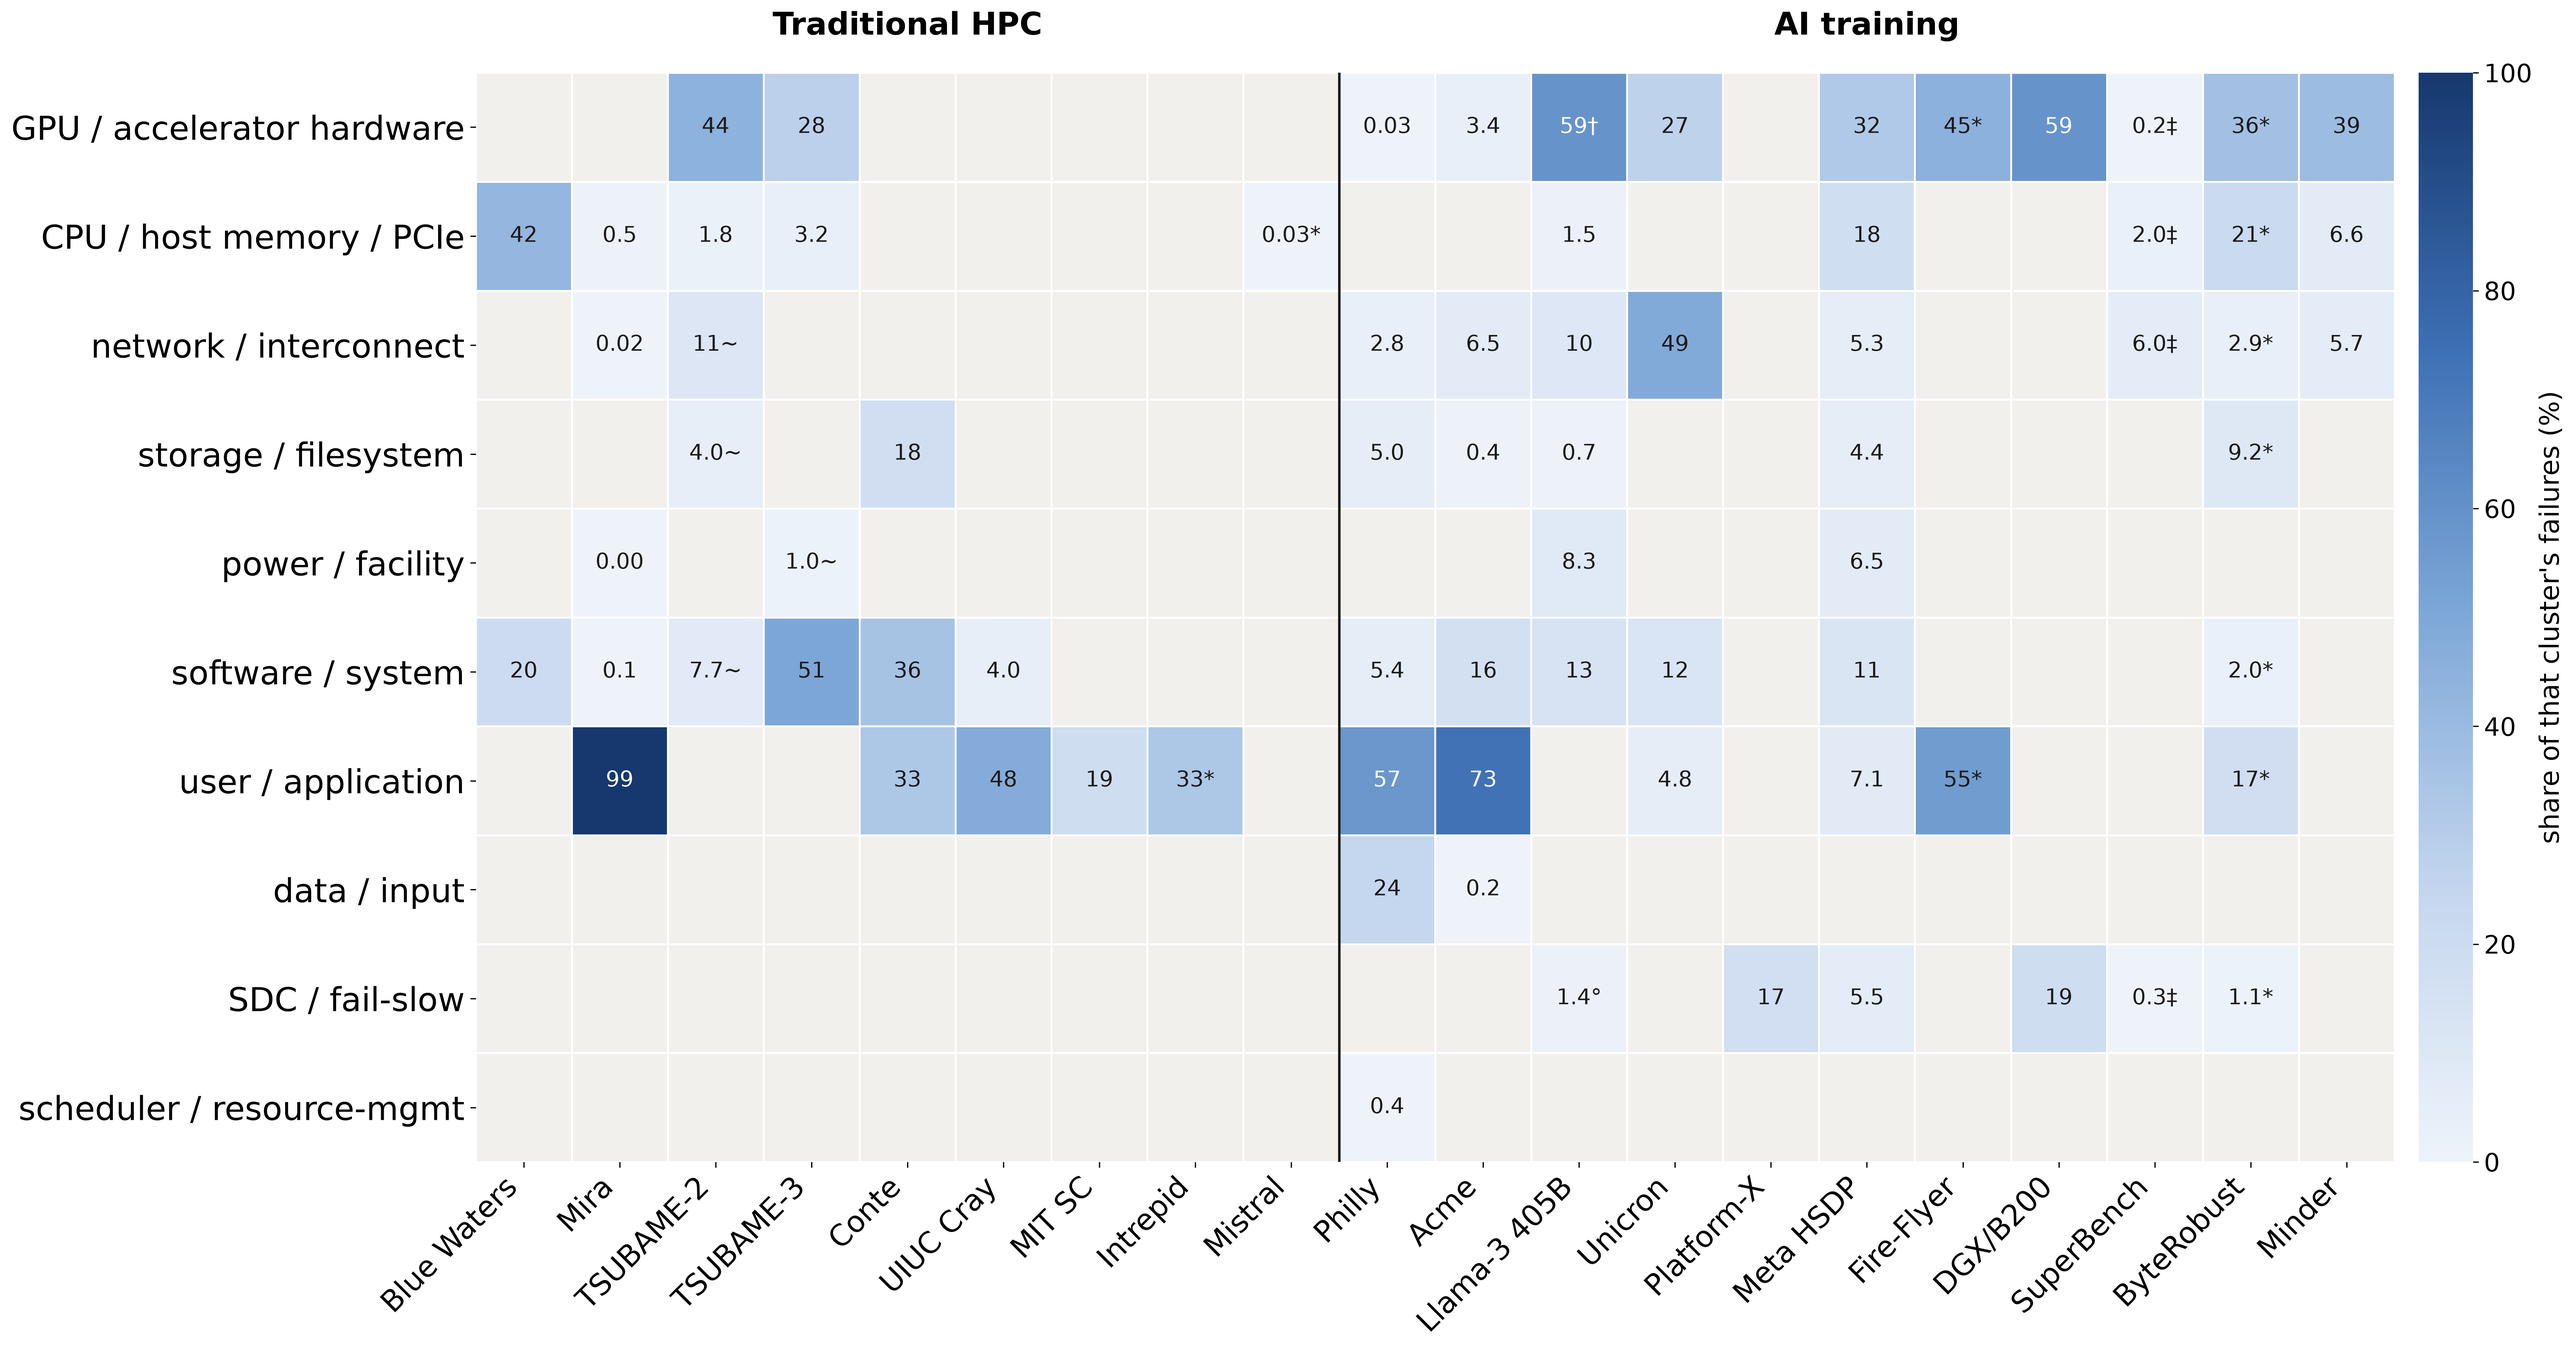
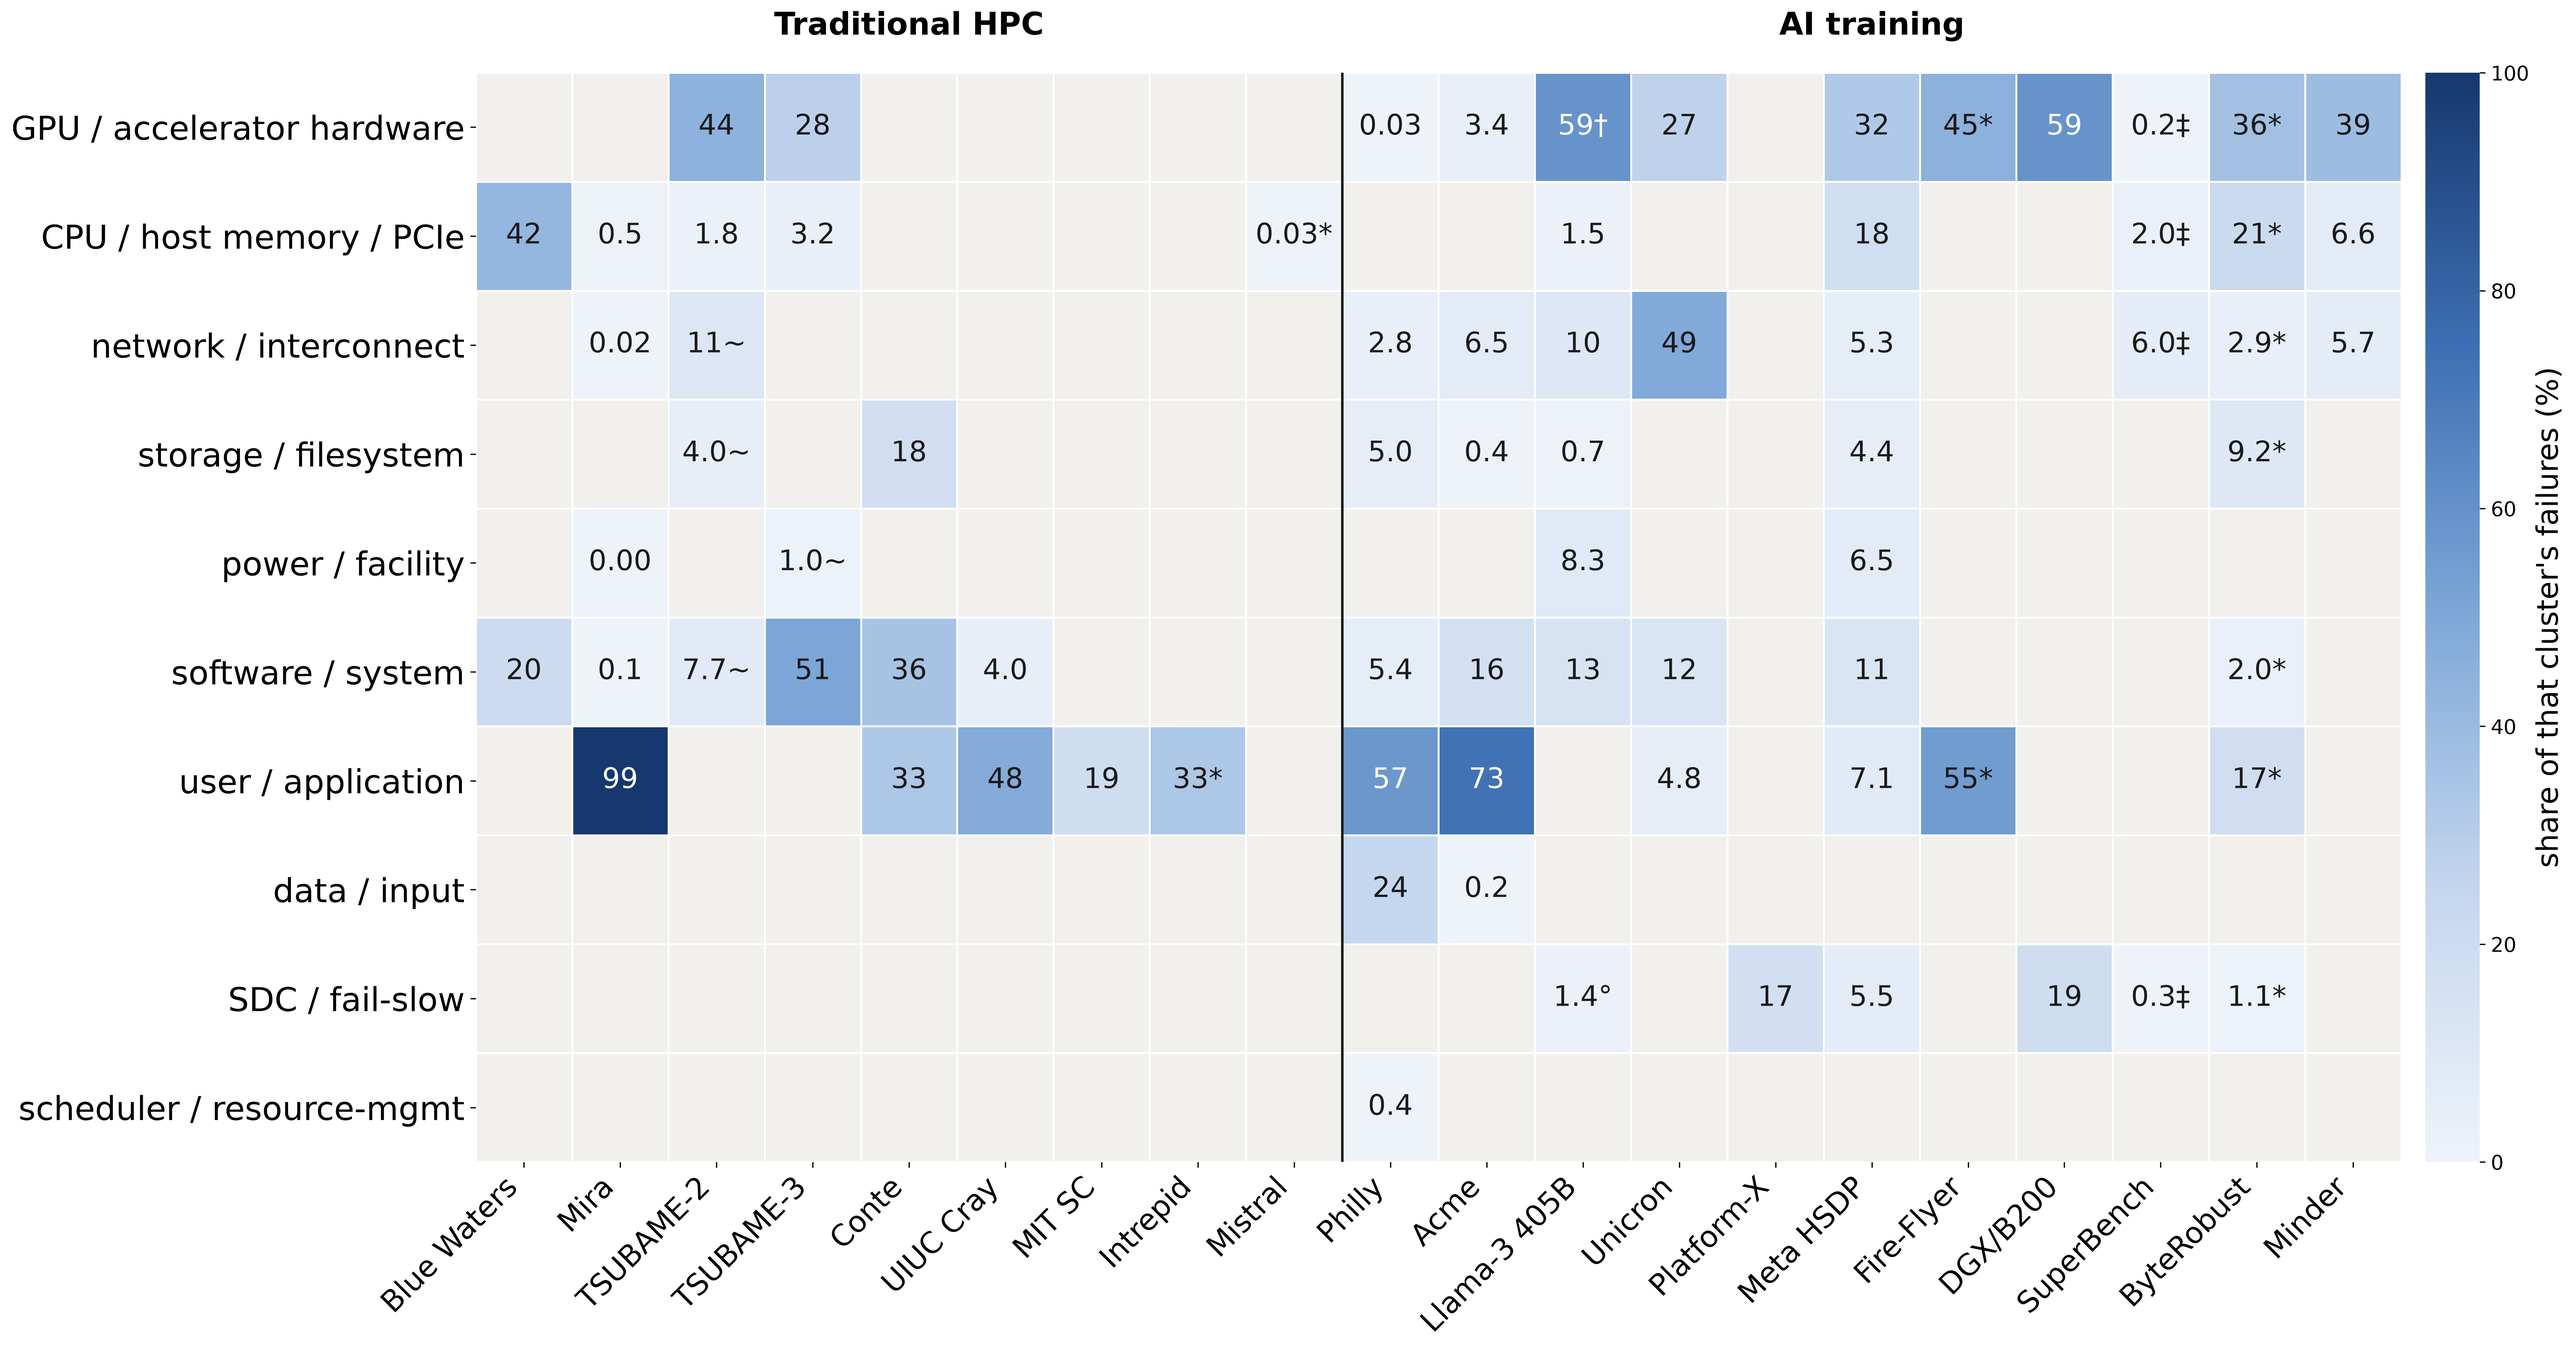
Update figures to camera-ready versions and fix render data path
The render script read the matrix CSVs from figures/, but the repo keeps
them in matrices/, so `python figures/render_final_figs.py` failed. Point
it at matrices/ and update it to the camera-ready typography (larger cell
and axis fonts, two-line row and column labels in the GPU figure). Data
values are unchanged. The committed PNGs are the output of this script and
match the figures in the FTXS paper and SC26 poster.

diff --git a/figures/render_final_figs.py b/figures/render_final_figs.py
@@ -13,8 +13,10 @@ matplotlib.rcParams["ps.fonttype"]  = 42
 import matplotlib.pyplot as plt
 import matplotlib.patches as mp
 from matplotlib.colors import LinearSegmentedColormap
+from mpl_toolkits.axes_grid1 import make_axes_locatable
 
 HERE = Path(__file__).parent
+DATA = HERE.parent / 'matrices'   # repo layout: CSVs live in matrices/
 F = 1.0  # fonts below are ABSOLUTE printed points; canvases match poster placement size
 
 ROWS = ["GPU/accelerator hardware","CPU/host memory/PCIe","network/interconnect",
@@ -51,7 +53,7 @@ def val(s):
 def mark(s):
     return re.sub(r'[\d.]','',s)
 
-hdr,dc = load(HERE/'matrix_count_v3.csv')
+hdr,dc = load(DATA/'matrix_count_v3.csv')
 
 # ---------------- FIG A: cause-attributed heat map + colorbar ----------------
 cause_rows = ROWS[:10]
@@ -70,7 +72,7 @@ for i in range(len(cause_rows)):
         v=M[i,j]
         if np.isnan(v): continue
         t=("0" if v==0 else f"{v:.2f}" if v<0.1 else f"{v:.1f}" if v<10 else f"{v:.0f}")+MK.get((i,j),'')
-        ax.text(j,i,t,ha='center',va='center',fontsize=14,
+        ax.text(j,i,t,ha='center',va='center',fontsize=18,
                 color="#ffffff" if v>55 else "#1a1a1a")
 ax.set_xticks(np.arange(-0.5,len(cols)),minor=True); ax.set_yticks(np.arange(-0.5,len(cause_rows)),minor=True)
 ax.grid(which='minor',color='white',linewidth=1.2); ax.tick_params(which='minor',length=0)
@@ -84,8 +86,8 @@ ax.axvline(nh-0.5,color='#1a1a1a',linewidth=1.6)
 ax.text((nh-1)/2,-0.85,'Traditional HPC',ha='center',fontsize=20,fontweight='bold')
 ax.text(nh+(len(cols)-nh-1)/2,-0.85,'AI training',ha='center',fontsize=20,fontweight='bold')
 cb = fig.colorbar(im, ax=ax, fraction=0.028, pad=0.012)
-cb.set_label("share of that cluster's failures (%)", fontsize=17)
-cb.ax.tick_params(labelsize=16); cb.outline.set_visible(False)
+cb.set_label("share of that cluster's failures (%)", fontsize=19)
+cb.ax.tick_params(labelsize=13); cb.outline.set_visible(False)
 fig.tight_layout()
 fig.savefig(HERE/'figA_causes_final.png', bbox_inches='tight')
 fig.savefig(HERE/'figA_causes_final.pdf', bbox_inches='tight'); plt.close(fig)
@@ -101,34 +103,34 @@ groups={**{c:'#3d6fb4' for c in HPCset},**{c:'#b4643d' for c in AIset}}
 colors=[groups.get(c,'#6e6e6e') for c,_,_ in labels]
 ax.barh(range(len(labels)),[v for _,v,_ in labels],color=colors,height=0.62)
 for i,(c,v,s) in enumerate(labels):
-    ax.text(v+0.4,i,s,va='center',fontsize=17,color='#1a1a1a')
+    ax.text(v+0.4,i,s,va='center',fontsize=19,color='#1a1a1a')
 ax.set_yticks(range(len(labels)))
 ax.set_yticklabels([SH.get(c,c) for c,_,_ in labels],fontsize=20)
-ax.set_xlabel("failed / unsuccessful share of jobs (%), scheduler label only",fontsize=17)
+ax.set_xlabel("failed / unsuccessful share of jobs (%), scheduler label only",fontsize=19)
 ax.tick_params(axis='x',labelsize=16)
 ax.legend(handles=[mp.Patch(color='#3d6fb4',label='HPC'),mp.Patch(color='#b4643d',label='AI'),
-                   mp.Patch(color='#6e6e6e',label='Cloud')],fontsize=14,loc='lower right',frameon=False)
+                   mp.Patch(color='#6e6e6e',label='Cloud')],fontsize=18,loc='lower right',frameon=False)
 for s in ('top','right'): ax.spines[s].set_visible(False)
 fig.tight_layout()
 fig.savefig(HERE/'figB_labels_final.png',bbox_inches='tight')
 fig.savefig(HERE/'figB_labels_final.pdf',bbox_inches='tight'); plt.close(fig)
 
 # ---------------- FIG C: GPU error classes + colorbar ----------------
-GROWS=["Uncorrectable memory (DBE/HBM)","Correctable memory (SBE/remap)","MMU / illegal access  [mostly app bugs]",
-"GSP / driver","NVLink","Off-bus / device lost (Xid79)","PCIe / interface","Thermal / power","SDC (silent)",
-"Generic GPU (no subclass)","Other named"]
-GCOLS=[("Blue Waters\nK20X","logged\nevents",{0:(0.009,'~'),2:(36.8,'~'),3:(21.1,'~'),5:(41.9,'~'),10:(0.12,'~')}),
- ("TSUBAME-2\nK20X","all failures",{9:(44.4,'')}),
- ("TSUBAME-3\nP100","all failures",{3:(21.6,'~'),9:(27.8,'')}),
+GROWS=["Uncorrectable memory\n(DBE/HBM)","Correctable memory\n(SBE/remap)","MMU / illegal access\n[mostly app bugs]",
+"GSP / driver","NVLink","Off-bus / device lost\n(Xid79)","PCIe / interface","Thermal / power","SDC (silent)",
+"Generic GPU\n(no subclass)","Other named"]
+GCOLS=[("Blue\nWaters\nK20X","logged\nevents",{0:(0.009,'~'),2:(36.8,'~'),3:(21.1,'~'),5:(41.9,'~'),10:(0.12,'~')}),
+ ("TSUBAME\n-2\nK20X","all\nfailures",{9:(44.4,'')}),
+ ("TSUBAME\n-3\nP100","all\nfailures",{3:(21.6,'~'),9:(27.8,'')}),
  ("Delta\nA100","critical\nXids",{0:(0.17,''),1:(0.45,'<'),2:(59.8,''),3:(26.0,''),4:(13.0,''),5:(0.07,''),7:(0.52,'')}),
- ("Ampere 3-sys\nA100/A40","ECC events",{0:(0.8,'<'),1:(99.2,'')}),
- ("Fire-Flyer\nA100 PCIe","raw Xids",{0:(0.25,''),1:(1.9,''),2:(53.0,''),3:(0.01,''),4:(42.6,''),5:(0.29,''),10:(2.0,'')}),
+ ("Ampere\n3-sys\nA100/A40","ECC\nevents",{0:(0.8,'<'),1:(99.2,'')}),
+ ("Fire-Flyer\nA100 PCIe","raw\nXids",{0:(0.25,''),1:(1.9,''),2:(53.0,''),3:(0.01,''),4:(42.6,''),5:(0.29,''),10:(2.0,'')}),
  ("Acme\nA100","failed-job\nGPU-time",{0:(11.0,''),4:(30.3,''),9:(15.8,'')}),
- ("Meta RSC\nA100","lemon nodes",{6:(15.4,''),9:(28.2,'')}),
+ ("Meta RSC\nA100","lemon\nnodes",{6:(15.4,''),9:(28.2,'')}),
  ("SuperBench\nA100","defective\nnodes",{1:(3.37,''),4:(0.30,''),6:(2.03,'')}),
  ("Delta\nH100","critical\nXids",{0:(3.19,''),1:(1.26,'<'),2:(95.4,''),3:(0.16,''),4:(0,''),5:(0,''),7:(0,'')}),
- ("Llama-3\nH100","interruptions",{0:(17.2,''),3:(4.1,''),5:(30.1,''),7:(1.4,''),8:(1.4,''),10:(4.5,'')}),
- ("DGX B200","17 failures",{0:(11.8,''),3:(5.9,''),4:(29.4,''),5:(11.8,''),10:(41.2,'')}),
+ ("Llama-3\nH100","interrup-\ntions",{0:(17.2,''),3:(4.1,''),5:(30.1,''),7:(1.4,''),8:(1.4,''),10:(4.5,'')}),
+ ("DGX B200","17\nfailures",{0:(11.8,''),3:(5.9,''),4:(29.4,''),5:(11.8,''),10:(41.2,'')}),
 ]
 n_r,n_c=len(GROWS),len(GCOLS)
 V=np.full((n_r,n_c),np.nan); VM={}
@@ -138,28 +140,29 @@ C=np.full_like(V,np.nan)
 for j in range(n_c):
     col=V[:,j]; mx=np.nanmax(col) if not np.all(np.isnan(col)) else 1
     C[:,j]=col/mx*100 if mx>0 else col
-fig,ax=plt.subplots(figsize=(23.0,11.3),dpi=300)
+fig,ax=plt.subplots(figsize=(23.0,11.0),dpi=300)
 im=ax.imshow(np.ma.masked_invalid(C),cmap=cmap,vmin=0,vmax=100,aspect="auto")
 for i in range(n_r):
     for j in range(n_c):
         v=V[i,j]
         if np.isnan(v): continue
         t=("0" if v==0 else f"{v:.2f}" if v<0.1 else f"{v:.1f}" if v<10 else f"{v:.0f}")+VM.get((i,j),'')
-        ax.text(j,i,t,ha='center',va='center',fontsize=14,
+        ax.text(j,i,t,ha='center',va='center',fontsize=18,
                 color="#ffffff" if (C[i,j] if not np.isnan(C[i,j]) else 0)>55 else "#1a1a1a")
 ax.set_xticks(np.arange(-0.5,n_c),minor=True); ax.set_yticks(np.arange(-0.5,n_r),minor=True)
 ax.grid(which='minor',color='white',linewidth=1.3); ax.tick_params(which='minor',length=0)
 ax.set_xticks(range(n_c))
-ax.set_xticklabels([f"{l}\n[{d}]" for l,d,_ in GCOLS],fontsize=14.5)
+ax.set_xticklabels([f"{l}\n[{d}]" for l,d,_ in GCOLS],fontsize=18.5)
 ax.set_yticks(range(n_r)); ax.set_yticklabels(GROWS,fontsize=21)
 for s in ax.spines.values(): s.set_visible(False)
 for x,lab,ctr in ((1.5,'K20X era',0.5),(2.5,'P100',2),(8.5,'A100 era',5.5),(10.5,'H100',9.5),(None,'B200',11)):
     if x is not None: ax.axvline(x,color='#1a1a1a',linewidth=1.6)
     ax.text(ctr,-0.85,lab,ha='center',fontsize=20,fontweight='bold')
-cb=fig.colorbar(im,ax=ax,fraction=0.028,pad=0.012)
-cb.set_label("share, normalized within each column (%)",fontsize=17)
-cb.ax.tick_params(labelsize=16); cb.outline.set_visible(False)
-fig.tight_layout()
+_div=make_axes_locatable(ax)
+_cax=_div.append_axes('right', size='1.3%', pad=0.16)
+cb=fig.colorbar(im,cax=_cax)
+cb.set_label("share, normalized within each column (%)",fontsize=15)
+cb.ax.tick_params(labelsize=13); cb.outline.set_visible(False)
 fig.savefig(HERE/'figC_gpu_errors_final.png',bbox_inches='tight')
 fig.savefig(HERE/'figC_gpu_errors_final.pdf',bbox_inches='tight'); plt.close(fig)
 print("final figures rendered: figA/figB/figC *_final")

diff --git a/README.md b/README.md
@@ -27,7 +27,7 @@ entries with links; [`survey/dataset_catalog.md`](survey/dataset_catalog.md) des
 | `matrices/gpu_matrix_design.md` | The GPU error-class matrix (12 systems, 11 classes, K20X to B200) with design rationale and per-cell source quotes. |
 | `verification/verification_report.md` | The three-pass verification protocol (per-cell quote audit, blind re-derivation, adjudication) and the six value errors it caught and corrected. |
 | `responsibility/WHO_FIXES_WHAT.md` | The who-fixes-what mapping: each failure class to its documented remediation owner (application developer / operator / vendor), from NVIDIA and site documentation, including documented points of divergence. |
-| `figures/` | The three poster figures and the matplotlib script that regenerates them from the matrices (`python figures/render_final_figs.py`; requires Python 3 + matplotlib + numpy). |
+| `figures/` | The three figures used in the paper and poster, and the matplotlib script that regenerates them from the matrices (`python figures/render_final_figs.py`; requires Python 3 + matplotlib + numpy). |
 
 ## Reading the matrices
 
